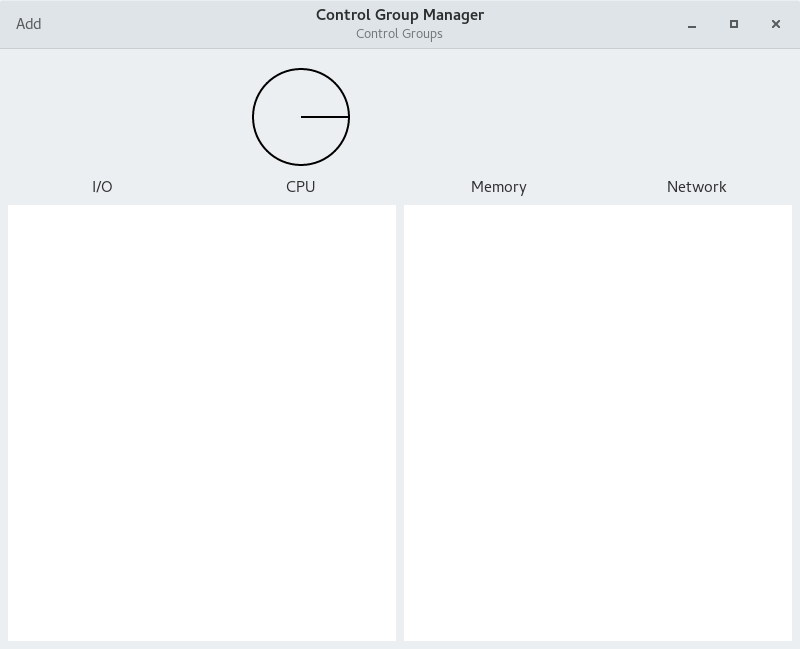
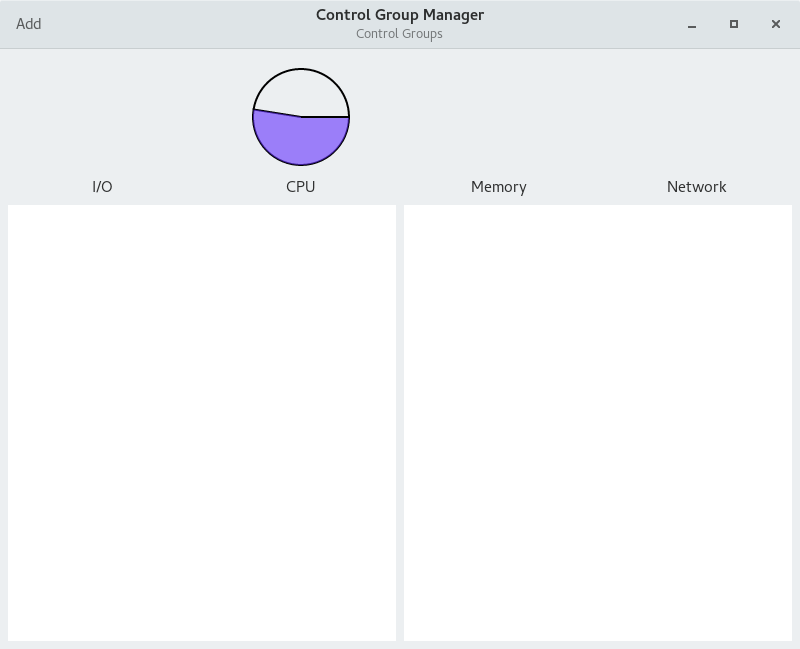
Updated allocation gathering method.
Now gathers resource allocations for each potential resource that the
system can control.

Changed region(s): [[0.3125, 0.1541, 0.4375, 0.2773]]

diff --git a/src/CGroupAPI.py b/src/CGroupAPI.py
@@ -37,15 +37,66 @@ class CGroupAPI:
             return_prop = 0
         return return_prop
 
-    def refresh(self, resource_name, pie_chart):
+    def shell_command(self, group, prop):
+        process = subprocess.Popen(['systemctl', 'show', group, '-p', prop], stdout=subprocess.PIPE)
+        val = process.communicate()[0]
+        return val.decode('utf-8')
+
+    def get_resource(self, group, resource):
+        enable_prop = ''
+        value_prop = ''
+        enabled = False
+        max_allocation = 0
+        allocation = 0
+        if resource == 'cpu':
+            enable_prop = 'CPUAccounting'
+            value_prop = 'CPUQuotaPerSecUSec'
+            max_allocation = self.processors * 1000
+        elif resource == 'mem':
+            enable_prop = 'MemoryAccounting'
+            value_prop = 'MemoryLimit'
+            max_allocation = 10000000  # TODO: Fix this
+        elif resource == 'blkio':
+            enable_prop = 'BlockIOAccounting'
+            value_prop = 'BlockIOWeight'
+            max_allocation = 100000000  # TODO: Fix this
+
+        tmp = self.shell_command(group, enable_prop)
+        enable_val = tmp.replace('\n', '').split('=')
+        if len(enable_val) > 1:
+            if enable_val[1] == 'yes' or enable_val[1] == 'Yes':
+                enabled = True
+
+        tmp = self.shell_command(group, value_prop)
+        value_val = tmp.replace('\n', '').split('=')
+        if len(value_val) > 1:
+            unit = 'ms'
+            if resource == 'cpu':
+                if 'ms' in value_val[1]:
+                    unit = 'ms'
+                elif 's' in value_val[1]:
+                    unit = 's'
+            non_decimal = re.compile(r'[^\d.]+')
+            tmp = non_decimal.sub('', value_val[1])
+            if tmp != '':
+                if unit == 's':
+                    allocation = int(float(tmp) * 1000)
+                else:
+                    allocation = int(tmp)
+            else:
+                allocation = 0
+        else:
+            allocation = 0
+        return Resource(resource, allocation, max_allocation, enabled)
+
+    def refresh(self, resource, pie_chart):
         self.units = []
         units = self.systemd.ListUnits(
             dbus_interface='org.freedesktop.systemd1.Manager')
         for unit in units:
             new_unit = Unit(unit[0])
-            res = Resource(resource_name, self.get_group_property(
-                resource_name, new_unit.name), self.processors * 1000)
-            new_unit.resources[resource_name] = res
+            res = self.get_resource(new_unit.name, resource)
+            new_unit.resources[resource] = res
             self.units.append(new_unit)
         pie_chart.set_sections(self.units)
 

diff --git a/src/CGroup_Manager.py b/src/CGroup_Manager.py
@@ -34,8 +34,8 @@ class CGroupManager:
         self.cpuChartRenderer = PieChartRenderer(builder.get_object('cpuChartArea'),
                                                  (102 / 255.0, 51 /
                                                   255.0, 255 / 255.0),
-                                                 api.units, 'CPUQuotaPerSecUSec')
-        api.refresh('CPUQuotaPerSecUSec', self.cpuChartRenderer)
+                                                 api.units, 'cpu')
+        api.refresh('cpu', self.cpuChartRenderer)
         # self.memChartRenderer = PieChartRenderer(builder.get_object('memChartArea'),
         #                                          (204 / 255.0, 51 /
         #                                           255.0, 255 / 255.0),

diff --git a/src/Resource.py b/src/Resource.py
@@ -1,6 +1,7 @@
 class Resource:
 
-    def __init__(self, name, allocation, max_allocation):
+    def __init__(self, name, allocation, max_allocation, enabled):
         self.name = name
         self.allocation = allocation
         self.max_allocation = max_allocation
+        self.enabled = enabled
